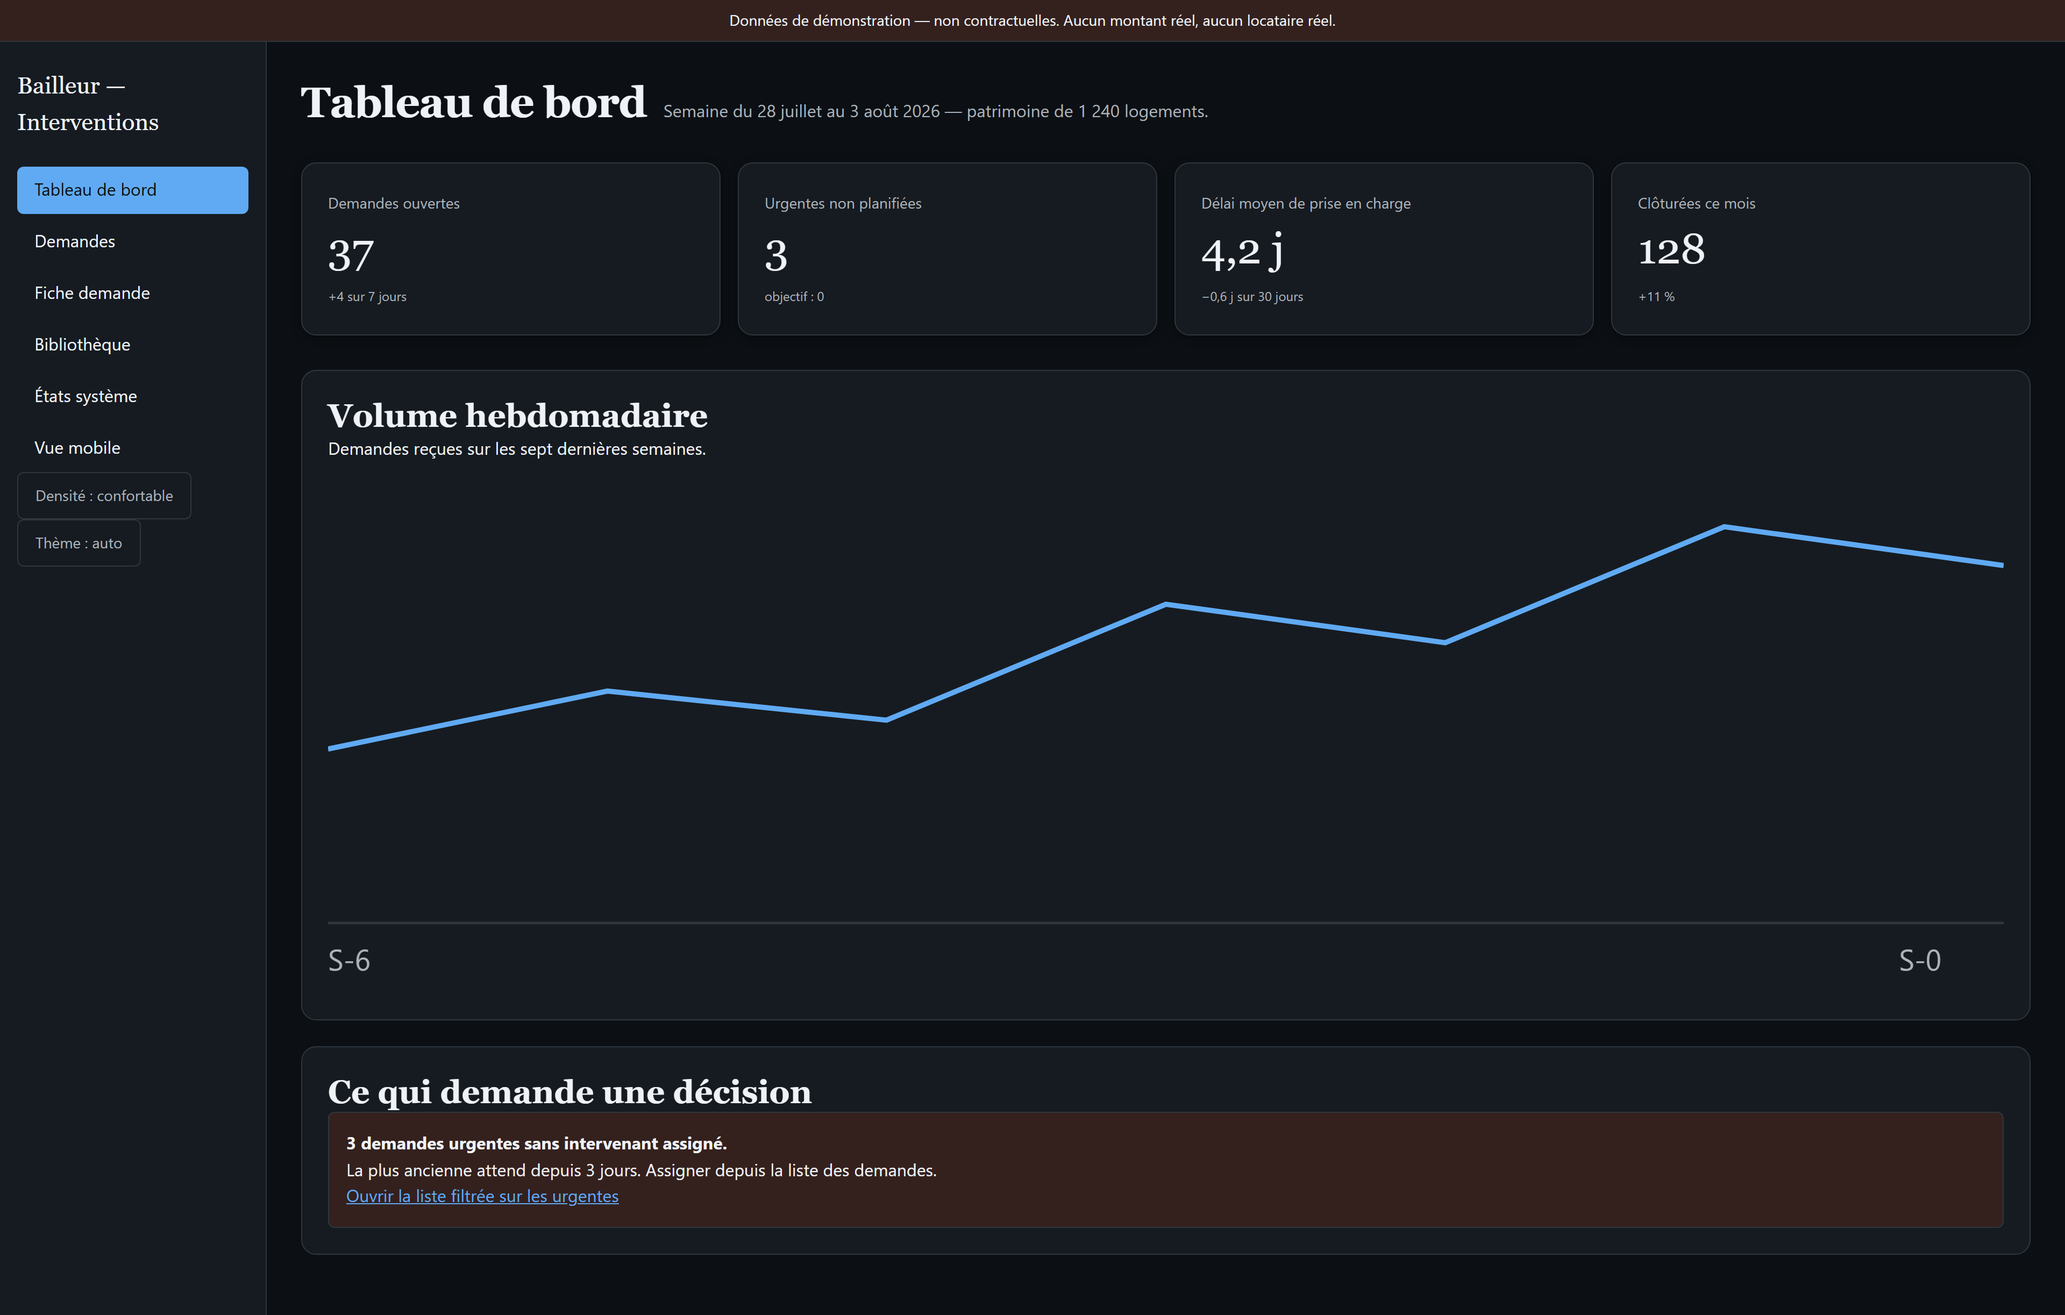
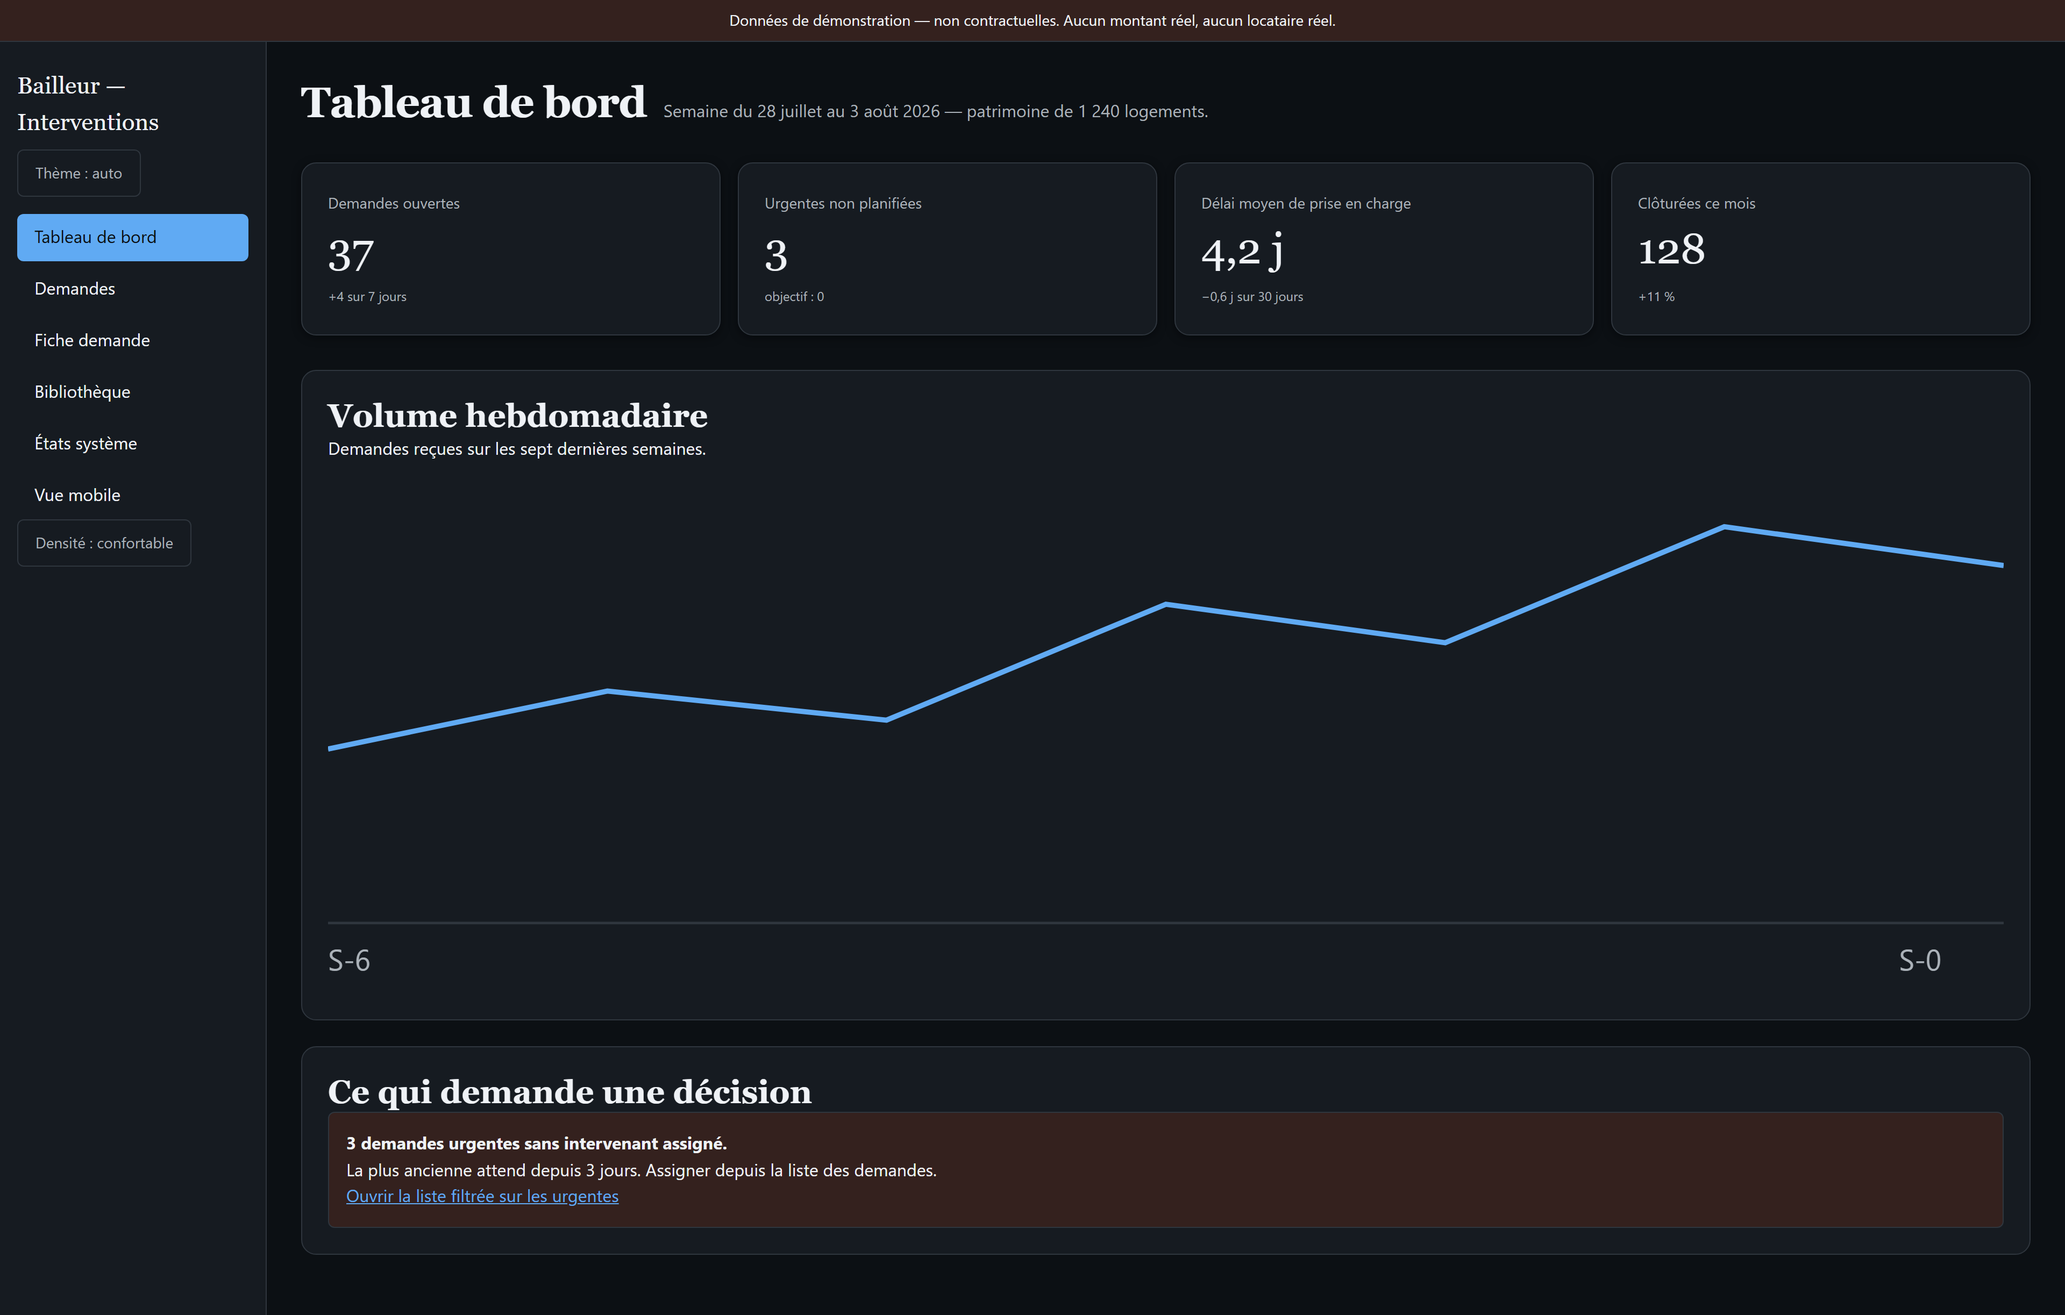
TF-0361 : la maquette de démo a enfin la bascule que le socle exige
Constat né en passant de la campagne TF-0335, et vérifié pré-existant :
`oracle-bascule` sortait FAIL sur B-T1 (aucun bouton reconnu) et B-T3 (aucune
persistance) — sur la maquette qui sert de VITRINE au socle, et qui porte
pourtant `@media (prefers-color-scheme: dark)` plus une palette sombre. Elle
savait donc changer de thème sans laisser le lecteur le choisir : la famille
exacte que RV-9 et TF-0327 ont fermée ailleurs.

Ce qui manquait n'était pas le bouton — il existait, sous le nom
`#bascule-theme`, en bas d'une liste de navigation. Trois défauts réels, pas un
habillage pour faire passer un oracle :

· **B-T1 — il ne portait aucun sélecteur reconnaissable.** Un bouton que
  personne ne peut désigner n'est pas outillable : ni un oracle, ni un test, ni
  la page suivante qui voudrait s'en inspirer. `.theme-toggle` +
  `data-theme-toggle`, plus `aria-label` et `aria-pressed` qui manquaient aussi.

· **B-T1 (zone) — il vivait en bas de la nav.** Il appartient au CHROME de
  l'application, pas à la liste des destinations. Le rail reçoit son
  `<header class="rail-entete">` réel — marque à gauche, réglage à droite — et
  la bascule y monte. C'est une correction d'information, pas de conformité.

· **B-T2 — l'écouteur était DÉLÉGUÉ sur `document`.** Ça marche, et ça rend le
  câblage indémontrable : ni un lecteur ni un oracle ne peut répondre « ce
  bouton est-il câblé ? » sans dérouler tout le gestionnaire global. Écouteur
[…]

Changed region(s): [[0.0, 0.1243, 0.125, 0.3418], [0.0, 0.3729, 0.0938, 0.435]]

diff --git a/demo/Digit-AI - Maquette Bailleur - Interventions - 20260804a.html b/demo/Digit-AI - Maquette Bailleur - Interventions - 20260804a.html
@@ -145,6 +145,10 @@ code, .mono { font-family: var(--police-mono); font-size: var(--texte-sm); }
   border-radius: var(--rayon-md);
   color: var(--texte-principal); text-decoration: none;
 }
+.rail-entete { display: flex; align-items: center; justify-content: space-between;
+  gap: var(--espace-sm); flex-wrap: wrap; margin-bottom: var(--espace-md); }
+.rail-entete .marque { margin: 0; }
+
 @media (hover: hover) and (pointer: fine) {
   .rail nav a:hover { background: var(--fond-creux); }
 }
@@ -321,7 +325,12 @@ thead .filtre { display: block; margin-top: var(--espace-sm); width: 100%; min-h
 
 <div class="enveloppe">
   <aside class="rail">
-    <div class="marque">Bailleur — Interventions</div>
+    <header class="rail-entete">
+      <div class="marque">Bailleur — Interventions</div>
+      <button class="btn btn-discret theme-toggle" id="bascule-theme" type="button"
+              data-theme-toggle aria-pressed="false"
+              aria-label="Basculer le thème (auto, clair, sombre)">Thème : auto</button>
+    </header>
     <nav aria-label="Navigation principale">
       <a href="#tableau-de-bord" data-nav="tableau-de-bord">Tableau de bord</a>
       <a href="#demandes" data-nav="demandes">Demandes</a>
@@ -332,9 +341,6 @@ thead .filtre { display: block; margin-top: var(--espace-sm); width: 100%; min-h
     </nav>
     <p>
       <button class="btn btn-discret" id="bascule-densite" type="button">Densité : confortable</button>
-    </p>
-    <p>
-      <button class="btn btn-discret" id="bascule-theme" type="button">Thème : auto</button>
     </p>
   </aside>
 
@@ -630,6 +636,36 @@ document.addEventListener("input", (e) => {
   if (e.target.id === "recherche") { ETAT.filtre = e.target.value; rendre(); document.getElementById("recherche").focus(); }
 });
 
+function appliquerTheme(theme, bouton) {
+  document.documentElement.setAttribute("data-theme", theme);
+  // TF-0361 — le choix SURVIT au rechargement. Une bascule qui oublie fait re-choisir le
+  // lecteur à chaque page : le geste existe, le réglage non.
+  try { localStorage.setItem("digitai-theme", theme); } catch (err) { /* stockage refusé */ }
+  const cible = bouton || document.getElementById("bascule-theme");
+  if (cible) {
+    cible.textContent = "Thème : " + theme;
+    cible.setAttribute("aria-pressed", theme === "dark" ? "true" : "false");
+  }
+}
+
+(function () {
+  let stocke = null;
+  try { stocke = localStorage.getItem("digitai-theme"); } catch (err) { /* stockage refusé */ }
+  if (stocke) appliquerTheme(stocke);
+
+  // TF-0361 — écouteur attaché à CE bouton, pas seulement délégué sur `document`. La
+  // délégation marche, mais elle rend le câblage indémontrable : ni un lecteur ni un oracle
+  // ne peut répondre « ce bouton est-il câblé ? » sans dérouler tout le gestionnaire global.
+  const bouton = document.getElementById("bascule-theme");
+  if (bouton) {
+    bouton.addEventListener("click", function () {
+      const ordre = ["auto", "light", "dark"];
+      const courant = document.documentElement.getAttribute("data-theme");
+      appliquerTheme(ordre[(ordre.indexOf(courant) + 1) % 3], bouton);
+    });
+  }
+})();
+
 document.addEventListener("click", (e) => {
   const tri = e.target.closest("[data-tri]");
   if (tri) {
@@ -647,12 +683,6 @@ document.addEventListener("click", (e) => {
     if (a === "feuille-ouvrir") { ETAT.feuilleOuverte = true; rendre(); }
     if (a === "feuille-fermer") { ETAT.feuilleOuverte = false; rendre(); }
     return;
-  }
-  if (e.target.id === "bascule-theme") {
-    const ordre = ["auto", "light", "dark"];
-    const suivant = ordre[(ordre.indexOf(document.documentElement.getAttribute("data-theme")) + 1) % 3];
-    document.documentElement.setAttribute("data-theme", suivant);
-    e.target.textContent = "Thème : " + suivant;
   }
   if (e.target.id === "bascule-densite") {
     ETAT.densite = ETAT.densite === "compact" ? "confortable" : "compact";

diff --git a/demo/maquette.template.html b/demo/maquette.template.html
@@ -145,6 +145,10 @@ code, .mono { font-family: var(--police-mono); font-size: var(--texte-sm); }
   border-radius: var(--rayon-md);
   color: var(--texte-principal); text-decoration: none;
 }
+.rail-entete { display: flex; align-items: center; justify-content: space-between;
+  gap: var(--espace-sm); flex-wrap: wrap; margin-bottom: var(--espace-md); }
+.rail-entete .marque { margin: 0; }
+
 @media (hover: hover) and (pointer: fine) {
   .rail nav a:hover { background: var(--fond-creux); }
 }
@@ -321,7 +325,12 @@ thead .filtre { display: block; margin-top: var(--espace-sm); width: 100%; min-h
 
 <div class="enveloppe">
   <aside class="rail">
-    <div class="marque">Bailleur — Interventions</div>
+    <header class="rail-entete">
+      <div class="marque">Bailleur — Interventions</div>
+      <button class="btn btn-discret theme-toggle" id="bascule-theme" type="button"
+              data-theme-toggle aria-pressed="false"
+              aria-label="Basculer le thème (auto, clair, sombre)">Thème : auto</button>
+    </header>
     <nav aria-label="Navigation principale">
       <a href="#tableau-de-bord" data-nav="tableau-de-bord">Tableau de bord</a>
       <a href="#demandes" data-nav="demandes">Demandes</a>
@@ -332,9 +341,6 @@ thead .filtre { display: block; margin-top: var(--espace-sm); width: 100%; min-h
     </nav>
     <p>
       <button class="btn btn-discret" id="bascule-densite" type="button">Densité : confortable</button>
-    </p>
-    <p>
-      <button class="btn btn-discret" id="bascule-theme" type="button">Thème : auto</button>
     </p>
   </aside>
 
@@ -628,6 +634,36 @@ document.addEventListener("input", (e) => {
   if (e.target.id === "recherche") { ETAT.filtre = e.target.value; rendre(); document.getElementById("recherche").focus(); }
 });
 
+function appliquerTheme(theme, bouton) {
+  document.documentElement.setAttribute("data-theme", theme);
+  // TF-0361 — le choix SURVIT au rechargement. Une bascule qui oublie fait re-choisir le
+  // lecteur à chaque page : le geste existe, le réglage non.
+  try { localStorage.setItem("digitai-theme", theme); } catch (err) { /* stockage refusé */ }
+  const cible = bouton || document.getElementById("bascule-theme");
+  if (cible) {
+    cible.textContent = "Thème : " + theme;
+    cible.setAttribute("aria-pressed", theme === "dark" ? "true" : "false");
+  }
+}
+
+(function () {
+  let stocke = null;
+  try { stocke = localStorage.getItem("digitai-theme"); } catch (err) { /* stockage refusé */ }
+  if (stocke) appliquerTheme(stocke);
+
+  // TF-0361 — écouteur attaché à CE bouton, pas seulement délégué sur `document`. La
+  // délégation marche, mais elle rend le câblage indémontrable : ni un lecteur ni un oracle
+  // ne peut répondre « ce bouton est-il câblé ? » sans dérouler tout le gestionnaire global.
+  const bouton = document.getElementById("bascule-theme");
+  if (bouton) {
+    bouton.addEventListener("click", function () {
+      const ordre = ["auto", "light", "dark"];
+      const courant = document.documentElement.getAttribute("data-theme");
+      appliquerTheme(ordre[(ordre.indexOf(courant) + 1) % 3], bouton);
+    });
+  }
+})();
+
 document.addEventListener("click", (e) => {
   const tri = e.target.closest("[data-tri]");
   if (tri) {
@@ -645,12 +681,6 @@ document.addEventListener("click", (e) => {
     if (a === "feuille-ouvrir") { ETAT.feuilleOuverte = true; rendre(); }
     if (a === "feuille-fermer") { ETAT.feuilleOuverte = false; rendre(); }
     return;
-  }
-  if (e.target.id === "bascule-theme") {
-    const ordre = ["auto", "light", "dark"];
-    const suivant = ordre[(ordre.indexOf(document.documentElement.getAttribute("data-theme")) + 1) % 3];
-    document.documentElement.setAttribute("data-theme", suivant);
-    e.target.textContent = "Thème : " + suivant;
   }
   if (e.target.id === "bascule-densite") {
     ETAT.densite = ETAT.densite === "compact" ? "confortable" : "compact";

diff --git a/demo/rendus/maquette-sombre.html b/demo/rendus/maquette-sombre.html
@@ -145,6 +145,10 @@ code, .mono { font-family: var(--police-mono); font-size: var(--texte-sm); }
   border-radius: var(--rayon-md);
   color: var(--texte-principal); text-decoration: none;
 }
+.rail-entete { display: flex; align-items: center; justify-content: space-between;
+  gap: var(--espace-sm); flex-wrap: wrap; margin-bottom: var(--espace-md); }
+.rail-entete .marque { margin: 0; }
+
 @media (hover: hover) and (pointer: fine) {
   .rail nav a:hover { background: var(--fond-creux); }
 }
@@ -321,7 +325,12 @@ thead .filtre { display: block; margin-top: var(--espace-sm); width: 100%; min-h
 
 <div class="enveloppe">
   <aside class="rail">
-    <div class="marque">Bailleur — Interventions</div>
+    <header class="rail-entete">
+      <div class="marque">Bailleur — Interventions</div>
+      <button class="btn btn-discret theme-toggle" id="bascule-theme" type="button"
+              data-theme-toggle aria-pressed="false"
+              aria-label="Basculer le thème (auto, clair, sombre)">Thème : auto</button>
+    </header>
     <nav aria-label="Navigation principale">
       <a href="#tableau-de-bord" data-nav="tableau-de-bord">Tableau de bord</a>
       <a href="#demandes" data-nav="demandes">Demandes</a>
@@ -332,9 +341,6 @@ thead .filtre { display: block; margin-top: var(--espace-sm); width: 100%; min-h
     </nav>
     <p>
       <button class="btn btn-discret" id="bascule-densite" type="button">Densité : confortable</button>
-    </p>
-    <p>
-      <button class="btn btn-discret" id="bascule-theme" type="button">Thème : auto</button>
     </p>
   </aside>
 
@@ -630,6 +636,36 @@ document.addEventListener("input", (e) => {
   if (e.target.id === "recherche") { ETAT.filtre = e.target.value; rendre(); document.getElementById("recherche").focus(); }
 });
 
+function appliquerTheme(theme, bouton) {
+  document.documentElement.setAttribute("data-theme", theme);
+  // TF-0361 — le choix SURVIT au rechargement. Une bascule qui oublie fait re-choisir le
+  // lecteur à chaque page : le geste existe, le réglage non.
+  try { localStorage.setItem("digitai-theme", theme); } catch (err) { /* stockage refusé */ }
+  const cible = bouton || document.getElementById("bascule-theme");
+  if (cible) {
+    cible.textContent = "Thème : " + theme;
+    cible.setAttribute("aria-pressed", theme === "dark" ? "true" : "false");
+  }
+}
+
+(function () {
+  let stocke = null;
+  try { stocke = localStorage.getItem("digitai-theme"); } catch (err) { /* stockage refusé */ }
+  if (stocke) appliquerTheme(stocke);
+
+  // TF-0361 — écouteur attaché à CE bouton, pas seulement délégué sur `document`. La
+  // délégation marche, mais elle rend le câblage indémontrable : ni un lecteur ni un oracle
+  // ne peut répondre « ce bouton est-il câblé ? » sans dérouler tout le gestionnaire global.
+  const bouton = document.getElementById("bascule-theme");
+  if (bouton) {
+    bouton.addEventListener("click", function () {
+      const ordre = ["auto", "light", "dark"];
+      const courant = document.documentElement.getAttribute("data-theme");
+      appliquerTheme(ordre[(ordre.indexOf(courant) + 1) % 3], bouton);
+    });
+  }
+})();
+
 document.addEventListener("click", (e) => {
   const tri = e.target.closest("[data-tri]");
   if (tri) {
@@ -647,12 +683,6 @@ document.addEventListener("click", (e) => {
     if (a === "feuille-ouvrir") { ETAT.feuilleOuverte = true; rendre(); }
     if (a === "feuille-fermer") { ETAT.feuilleOuverte = false; rendre(); }
     return;
-  }
-  if (e.target.id === "bascule-theme") {
-    const ordre = ["auto", "light", "dark"];
-    const suivant = ordre[(ordre.indexOf(document.documentElement.getAttribute("data-theme")) + 1) % 3];
-    document.documentElement.setAttribute("data-theme", suivant);
-    e.target.textContent = "Thème : " + suivant;
   }
   if (e.target.id === "bascule-densite") {
     ETAT.densite = ETAT.densite === "compact" ? "confortable" : "compact";

diff --git a/demo/rendus/maquette.html b/demo/rendus/maquette.html
@@ -145,6 +145,10 @@ code, .mono { font-family: var(--police-mono); font-size: var(--texte-sm); }
   border-radius: var(--rayon-md);
   color: var(--texte-principal); text-decoration: none;
 }
+.rail-entete { display: flex; align-items: center; justify-content: space-between;
+  gap: var(--espace-sm); flex-wrap: wrap; margin-bottom: var(--espace-md); }
+.rail-entete .marque { margin: 0; }
+
 @media (hover: hover) and (pointer: fine) {
   .rail nav a:hover { background: var(--fond-creux); }
 }
@@ -321,7 +325,12 @@ thead .filtre { display: block; margin-top: var(--espace-sm); width: 100%; min-h
 
 <div class="enveloppe">
   <aside class="rail">
-    <div class="marque">Bailleur — Interventions</div>
+    <header class="rail-entete">
+      <div class="marque">Bailleur — Interventions</div>
+      <button class="btn btn-discret theme-toggle" id="bascule-theme" type="button"
+              data-theme-toggle aria-pressed="false"
+              aria-label="Basculer le thème (auto, clair, sombre)">Thème : auto</button>
+    </header>
     <nav aria-label="Navigation principale">
       <a href="#tableau-de-bord" data-nav="tableau-de-bord">Tableau de bord</a>
       <a href="#demandes" data-nav="demandes">Demandes</a>
@@ -332,9 +341,6 @@ thead .filtre { display: block; margin-top: var(--espace-sm); width: 100%; min-h
     </nav>
     <p>
       <button class="btn btn-discret" id="bascule-densite" type="button">Densité : confortable</button>
-    </p>
-    <p>
-      <button class="btn btn-discret" id="bascule-theme" type="button">Thème : auto</button>
     </p>
   </aside>
 
@@ -630,6 +636,36 @@ document.addEventListener("input", (e) => {
   if (e.target.id === "recherche") { ETAT.filtre = e.target.value; rendre(); document.getElementById("recherche").focus(); }
 });
 
+function appliquerTheme(theme, bouton) {
+  document.documentElement.setAttribute("data-theme", theme);
+  // TF-0361 — le choix SURVIT au rechargement. Une bascule qui oublie fait re-choisir le
+  // lecteur à chaque page : le geste existe, le réglage non.
+  try { localStorage.setItem("digitai-theme", theme); } catch (err) { /* stockage refusé */ }
+  const cible = bouton || document.getElementById("bascule-theme");
+  if (cible) {
+    cible.textContent = "Thème : " + theme;
+    cible.setAttribute("aria-pressed", theme === "dark" ? "true" : "false");
+  }
+}
+
+(function () {
+  let stocke = null;
+  try { stocke = localStorage.getItem("digitai-theme"); } catch (err) { /* stockage refusé */ }
+  if (stocke) appliquerTheme(stocke);
+
+  // TF-0361 — écouteur attaché à CE bouton, pas seulement délégué sur `document`. La
+  // délégation marche, mais elle rend le câblage indémontrable : ni un lecteur ni un oracle
+  // ne peut répondre « ce bouton est-il câblé ? » sans dérouler tout le gestionnaire global.
+  const bouton = document.getElementById("bascule-theme");
+  if (bouton) {
+    bouton.addEventListener("click", function () {
+      const ordre = ["auto", "light", "dark"];
+      const courant = document.documentElement.getAttribute("data-theme");
+      appliquerTheme(ordre[(ordre.indexOf(courant) + 1) % 3], bouton);
+    });
+  }
+})();
+
 document.addEventListener("click", (e) => {
   const tri = e.target.closest("[data-tri]");
   if (tri) {
@@ -647,12 +683,6 @@ document.addEventListener("click", (e) => {
     if (a === "feuille-ouvrir") { ETAT.feuilleOuverte = true; rendre(); }
     if (a === "feuille-fermer") { ETAT.feuilleOuverte = false; rendre(); }
     return;
-  }
-  if (e.target.id === "bascule-theme") {
-    const ordre = ["auto", "light", "dark"];
-    const suivant = ordre[(ordre.indexOf(document.documentElement.getAttribute("data-theme")) + 1) % 3];
-    document.documentElement.setAttribute("data-theme", suivant);
-    e.target.textContent = "Thème : " + suivant;
   }
   if (e.target.id === "bascule-densite") {
     ETAT.densite = ETAT.densite === "compact" ? "confortable" : "compact";
